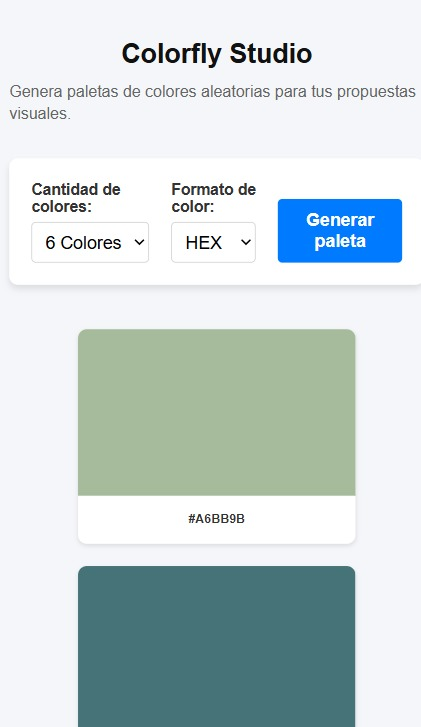
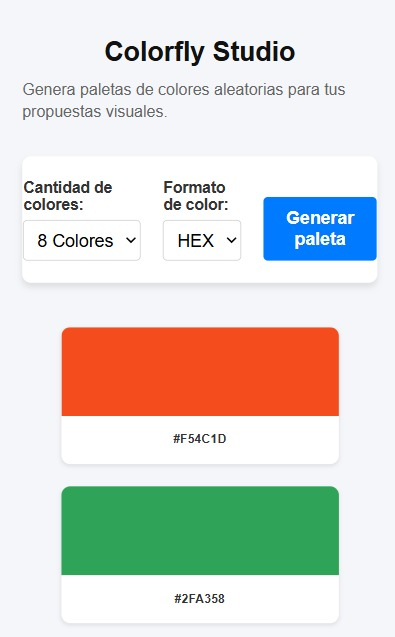
adding readme and footer

diff --git a/style.css b/style.css
@@ -113,7 +113,7 @@ button:focus-visible, select:focus-visible {
 }
 
 .color-muestra {
-    height: 150px;
+    height: clamp(80px, 15vw, 120px);
     width: 100%;
 }
 
@@ -140,6 +140,19 @@ button:focus-visible, select:focus-visible {
     padding: 12px 24px;
     border-radius: 4px;
     margin-top: 10px;
+}
+
+.footer {
+    margin-top: 50px;
+    padding: 20px;
+    text-align: center;
+    color: #666;
+    font-size: 0.9rem;
+    border-top: 1px solid #ddd;
+}
+
+.footer p {
+    margin: 0;
 }
 
 

diff --git a/index.html b/index.html
@@ -42,5 +42,10 @@
     <div id="toast-container" class="toast-container" aria-live="assertive"></div>
 
     <script src="script.js"></script>
+    
+    <footer class="footer">
+    <p>© 2026 Colorfly Studio | Desarrollado por Jeremías Duin</p>
+    
+</footer>
 </body>
 </html>

diff --git a/README.md b/README.md
@@ -73,6 +73,37 @@ Abrir el archivo index.html en cualquier navegador moderno.
 
 ![Pantalla inicial](./assets/capturas/inicio.jpeg)
 
+### Generación de una nueva paleta
+
+![Genera paletas](./assets/capturas/genera-paleta.jpeg)
+
+### Copia de un color
+
+![Copia color](./assets/capturas/copia-color.jpeg)
+
+### Vista responsive
+
+![Vista responsive](./assets/capturas/responsive.jpeg)
+
+## Uso de inteligencia artificial
+
+### Prompt 1
+
+Consulta:
+
+Contexto: Estoy haciendo el proyecto que te comentaba. Mi nivel es principiante.  
+Instrucciones claras: Ayudame a ir completando el proyecto en el visual studio paso a paso, falta el Javascript.  
+Restricciones: No quiero que utilices codigo complejo. Solo usa lineas faciles de leer pero que se vea bien.  
+Formato deseado: Dame un formato simple pero vistoso.  
+
+Respuesta:
+
+![Prompt 1](./assets/IA/2%20parte%20java.jpeg)
+
+![Prompt 2](./assets/IA/3%20parte%20java.jpeg)
+
+![Prompt 3](./assets/IA/4%20parte%20java.jpeg)
+
 ## 📱 Responsive Design
 
 La interfaz fue desarrollada para adaptarse correctamente a distintos tamaños de pantalla mediante: